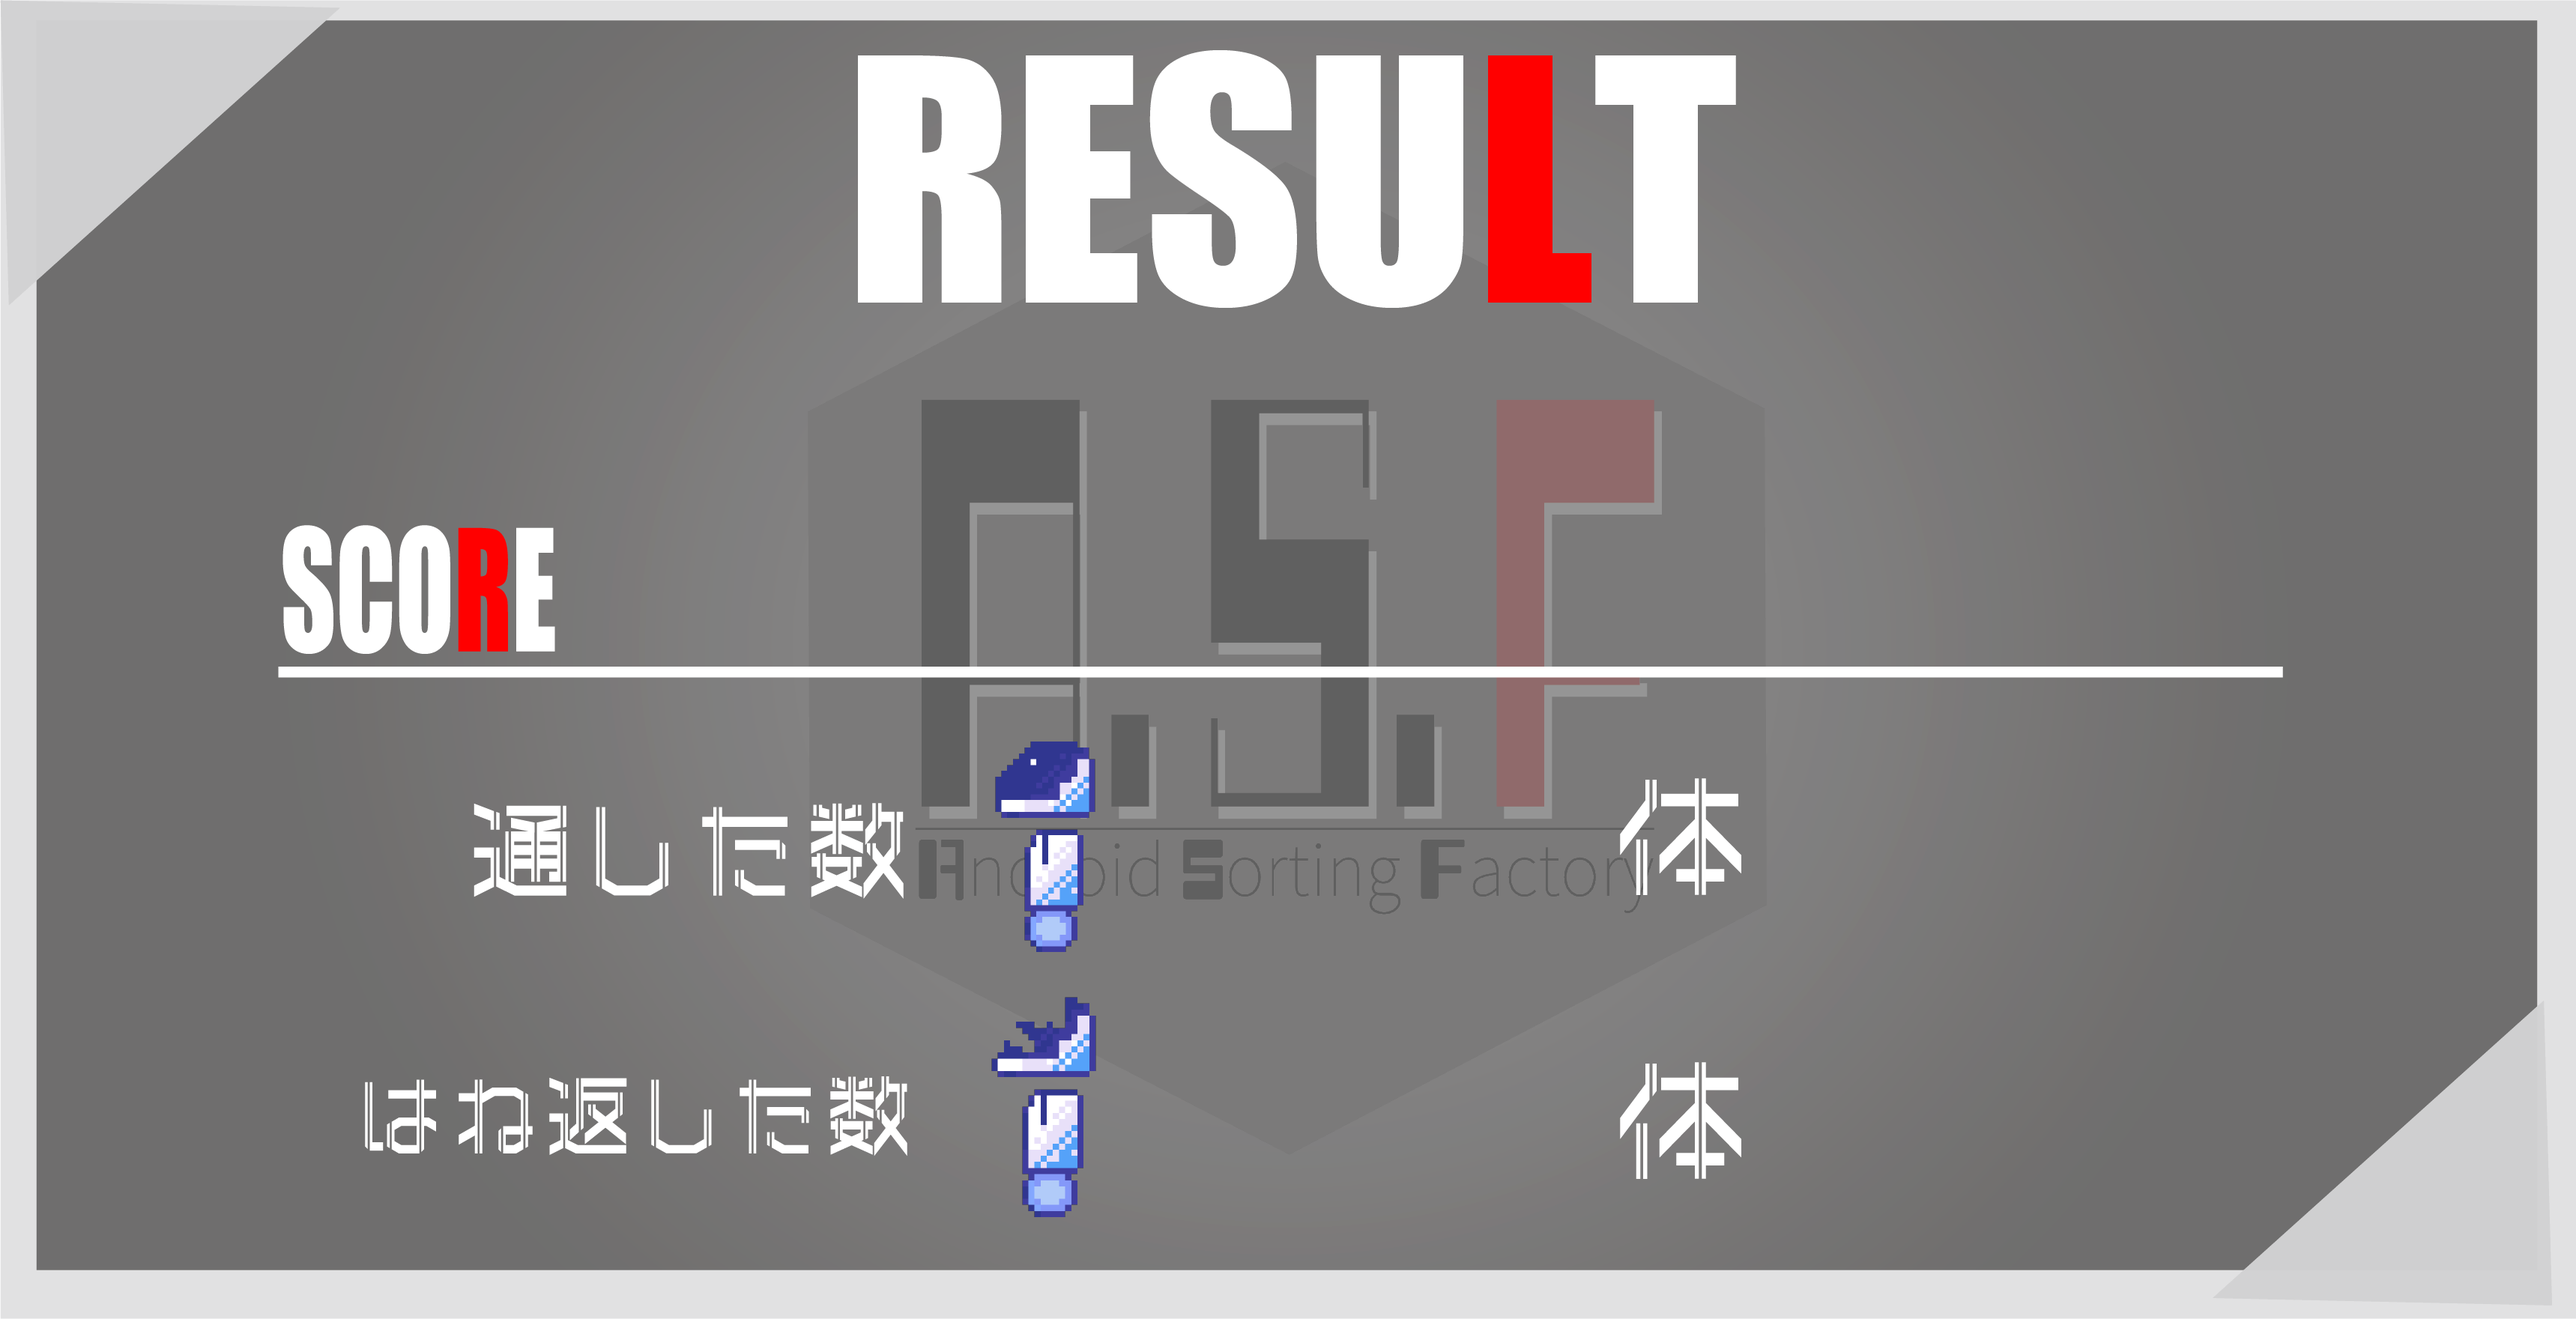
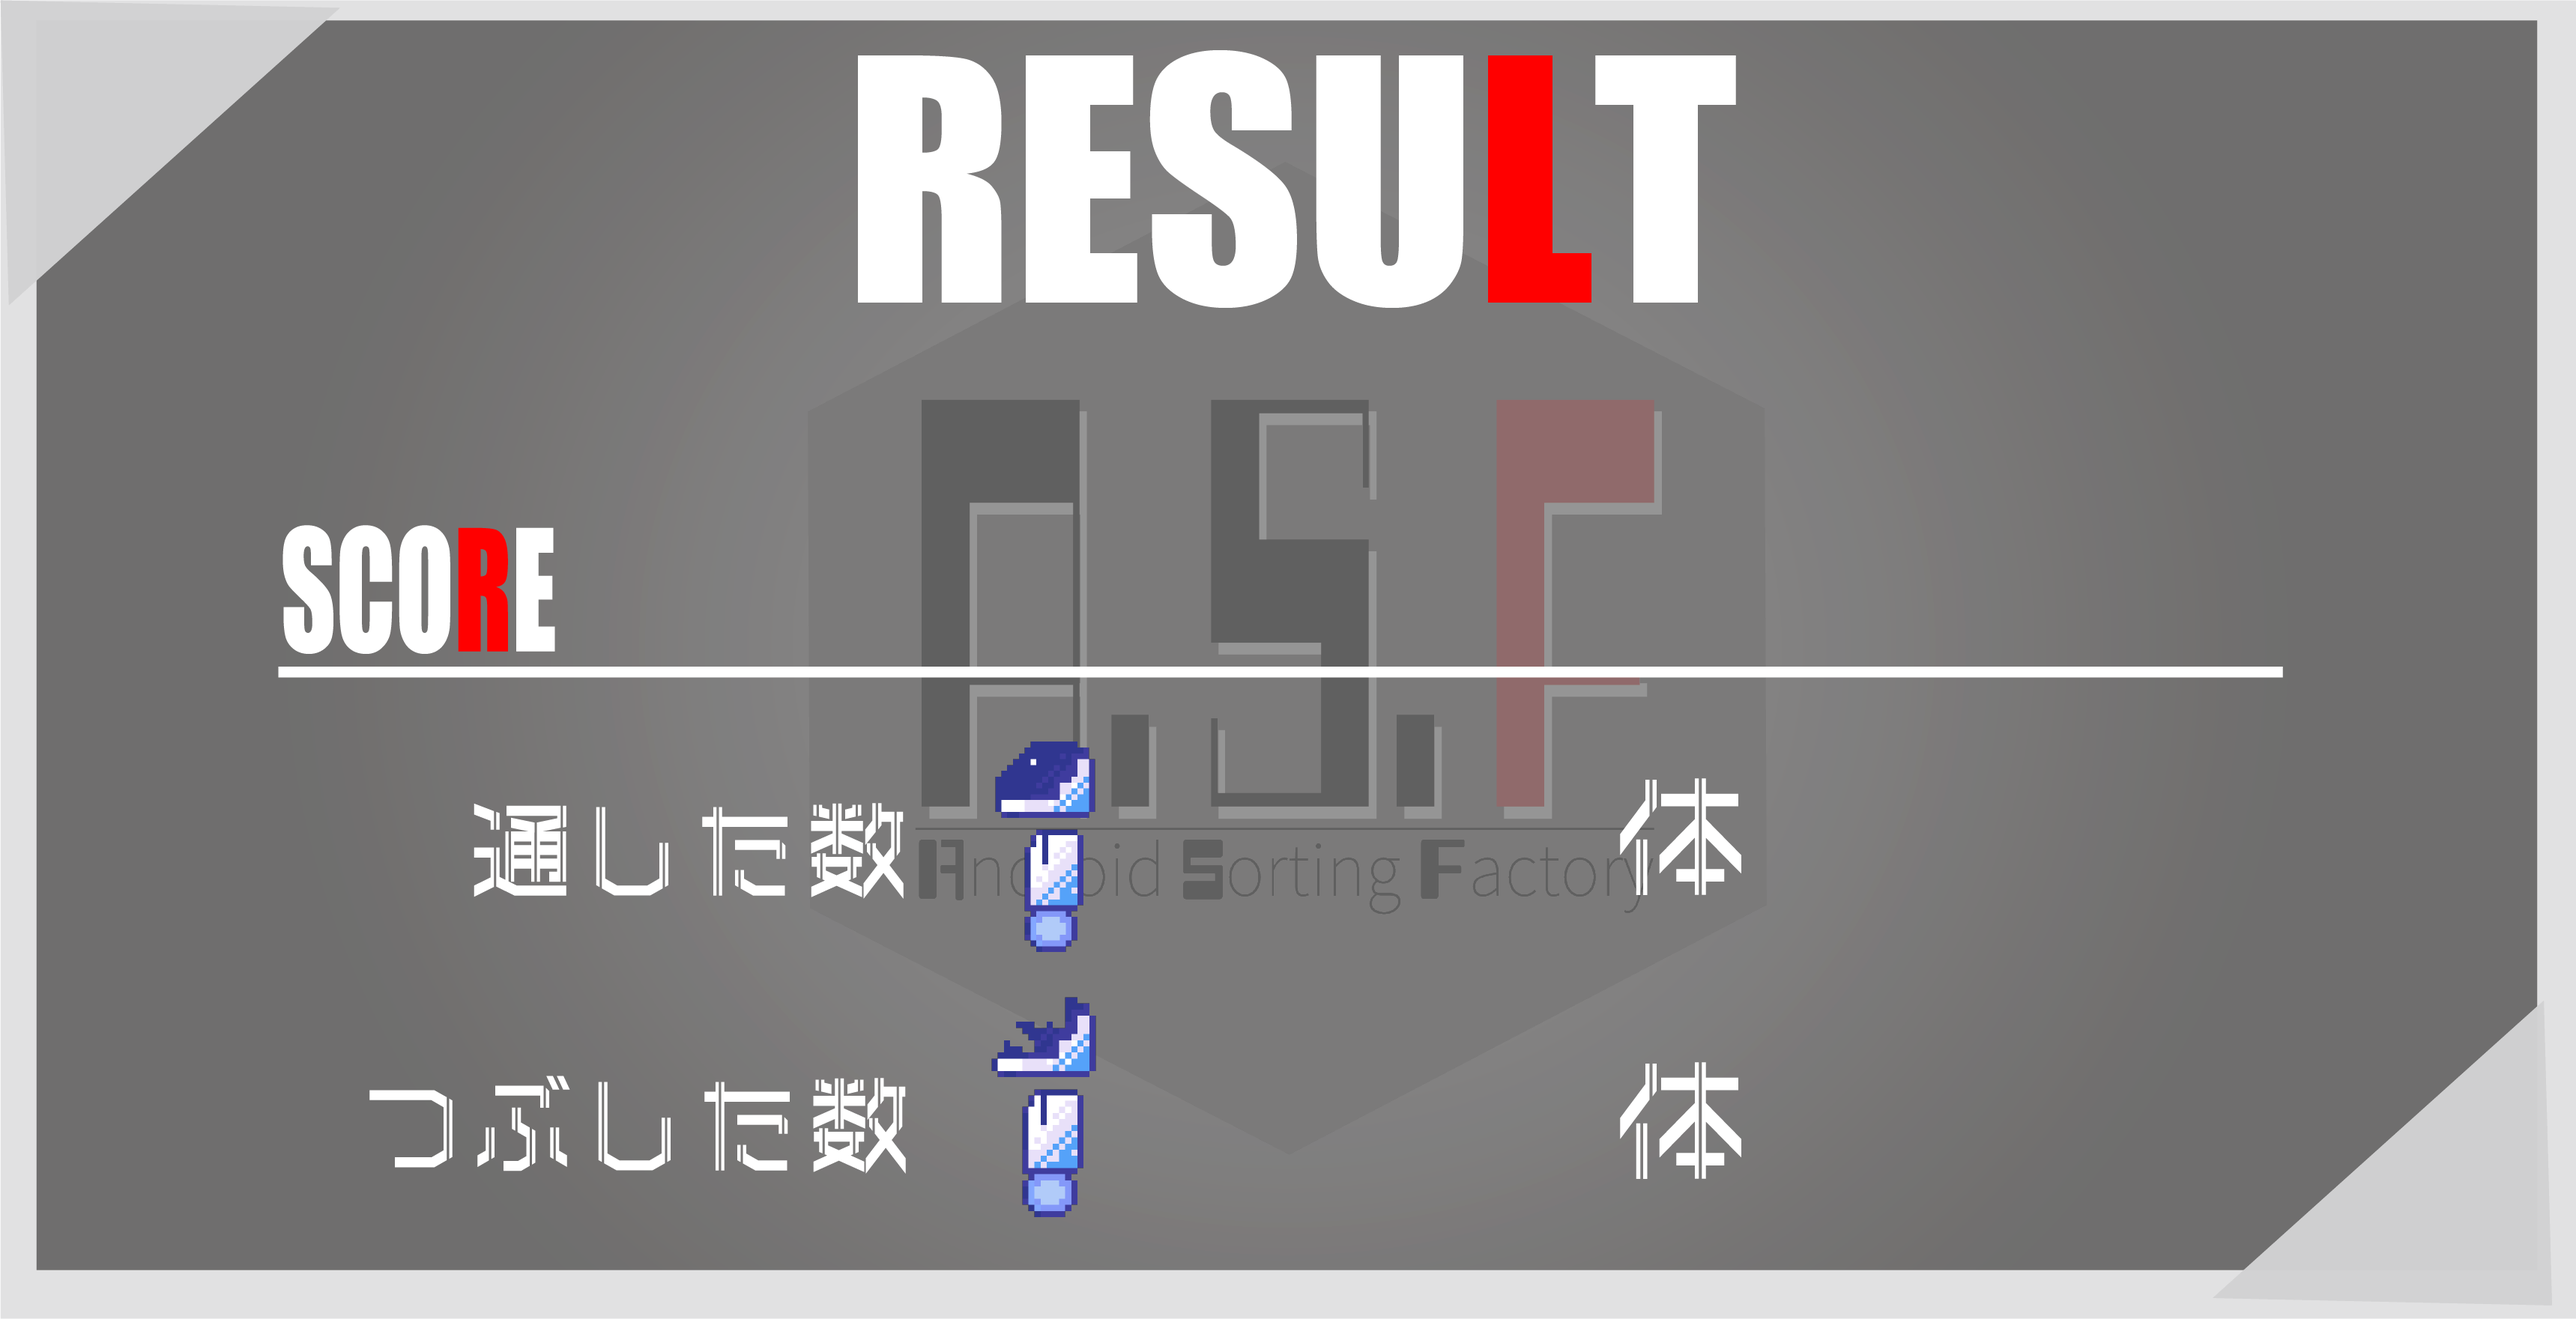
スコア関係の修正

Changed region(s): [[0.1245, 0.812, 0.3735, 0.9057]]

diff --git a/Assets/HikidoAssets/Scripts/GameManager.cs b/Assets/HikidoAssets/Scripts/GameManager.cs
@@ -71,6 +71,9 @@ namespace hikido
             totalScore = 0;
             resultScore = 0;
             aliveTime = 0;
+
+            normalAndroidNumber = 0;
+            badAndroidNumber = 0;
         }
 
         private void Update()
